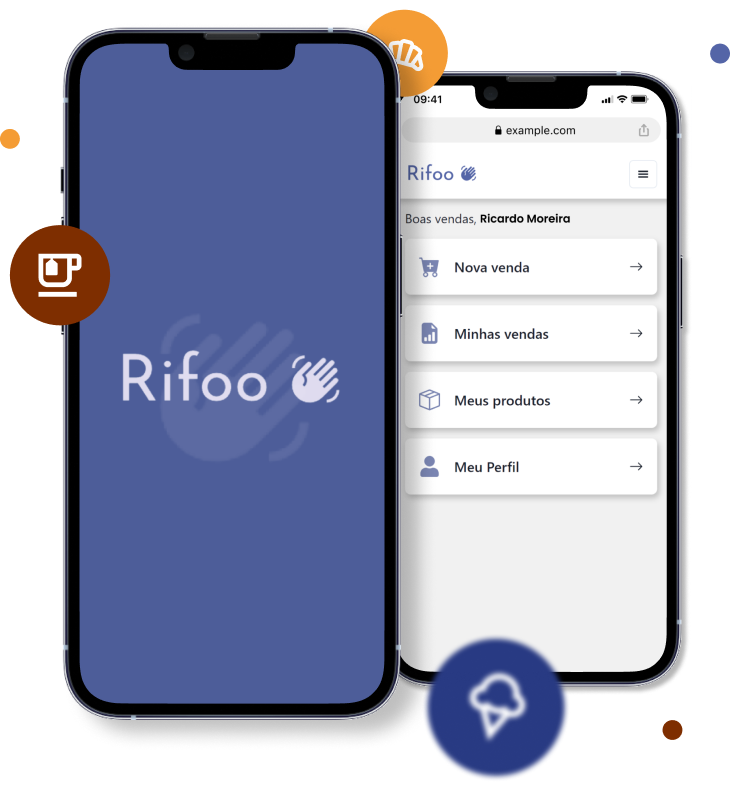
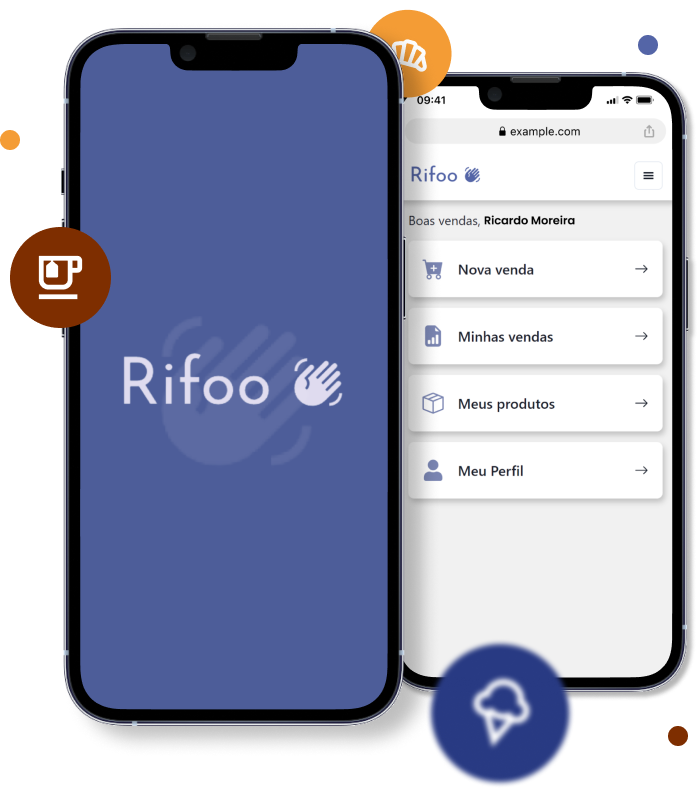
Ajuste centralização mockup landing page sec vantagens

diff --git a/src/components/Landing/Vantagens.tsx b/src/components/Landing/Vantagens.tsx
@@ -11,7 +11,7 @@ const Vantagens = () => {
             width="100%"
             direction="column"
             overflowX="hidden"
-            px="30px"
+            px="auto"
         >
             <Flex
                 width="100%"
@@ -51,7 +51,7 @@ const Vantagens = () => {
                 <Flex
                     width={[365, 365, 365 * 1.1, 365 * 1.3, 365 * 1.5]}
                     height={[395, 395, 395 * 1.1, 395 * 1.3, 395 * 1.5]}
-                    mx={["-10px", "-10px", "-10px", "auto", "-45px"]}
+                    mx={["auto", "auto", "auto", "auto", "-45px"]}
                     position="relative"
                 >
                     <Image
